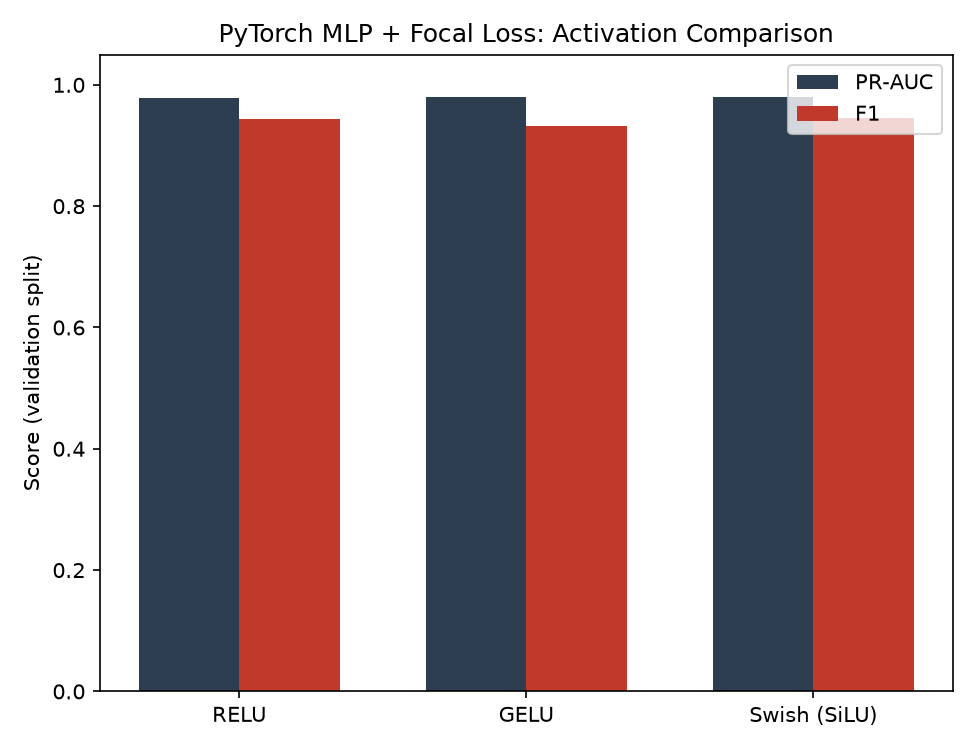
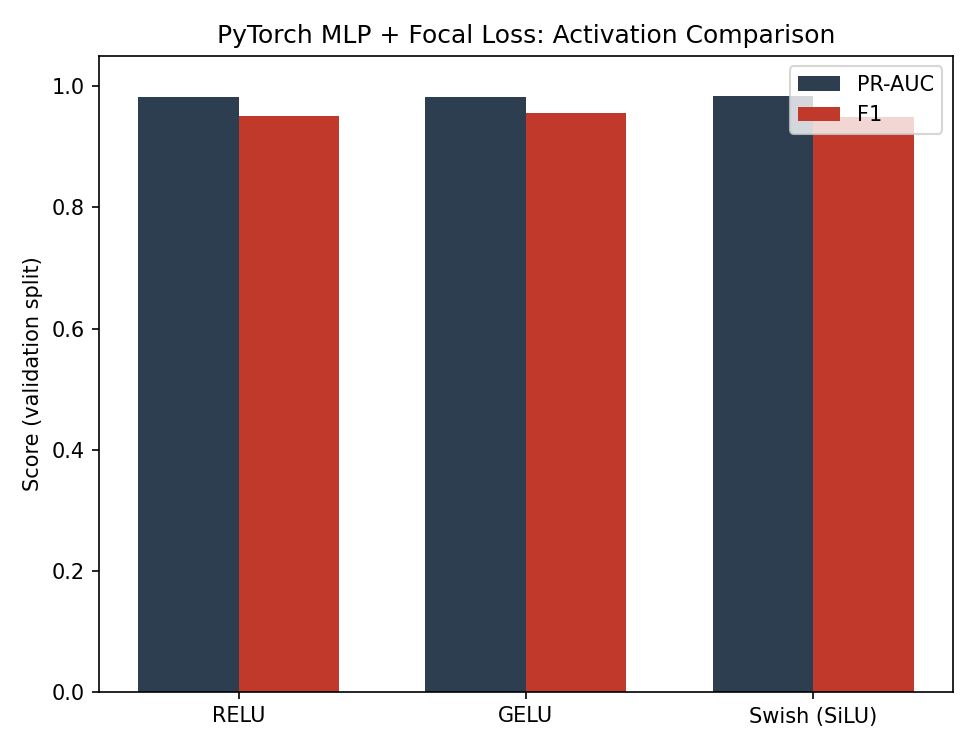
Fraud engine MLP: 100-epoch minimum with early stopping on validation PR-AUC, checkpoints
The MLP kept the best of a fixed 40 epochs. It now trains at least 100
epochs (max 300), early-stops on the validation month's PR-AUC
(patience 15), restores the best epoch and checkpoints every epoch. Best
epochs land at 74-81, past the old cap; test F1 rises slightly for every
activation (ReLU/GELU 0.941 -> 0.944, Swish 0.910 -> 0.924).

diff --git a/src/python/train_extra_models.py b/src/python/train_extra_models.py
@@ -27,8 +27,11 @@ metadata.json):
 """
 from __future__ import annotations
 
+import copy
+import hashlib
 import json
 import pathlib
+from pathlib import Path
 
 import duckdb
 import joblib
@@ -112,7 +115,26 @@ class FocalLoss(torch.nn.Module):
         return loss.mean()
 
 
-def _train_mlp(activation: str, X_train, y_train, X_val, y_val, n_epochs=40, lr=1e-3, seed=SEED):
+MIN_EPOCHS = 100  # ninguna red se detiene antes de 100 epocas
+MAX_EPOCHS = 300
+PATIENCE = 15
+
+
+def _fingerprint(*arrays, **config) -> str:
+    h = hashlib.sha256()
+    for a in arrays:
+        h.update(np.ascontiguousarray(np.asarray(a, dtype=np.float32)).tobytes())
+    h.update(json.dumps(config, sort_keys=True).encode())
+    return h.hexdigest()[:16]
+
+
+def _train_mlp(activation: str, X_train, y_train, X_val, y_val, n_epochs=MAX_EPOCHS, lr=1e-3, seed=SEED,
+               min_epochs=MIN_EPOCHS, patience=PATIENCE, checkpoint_path: Path | None = None, info: dict | None = None):
+    """Entrena con early stopping sobre el PR-AUC de la validacion temporal (el
+    mes anterior al test): al menos ``min_epochs`` epocas, desde ahi corta tras
+    ``patience`` epocas sin mejora y restaura la mejor epoca. Con
+    ``checkpoint_path`` el estado completo se guarda cada epoca y una corrida
+    interrumpida retoma donde quedo."""
     torch.manual_seed(seed)
     model = FraudMLP(X_train.shape[1], activation)
     optimizer = torch.optim.Adam(model.parameters(), lr=lr, weight_decay=1e-4)
@@ -124,28 +146,58 @@ def _train_mlp(activation: str, X_train, y_train, X_val, y_val, n_epochs=40, lr=
 
     batch_size = 512
     n = X_train_t.shape[0]
-    best_state, best_pr_auc = None, -1.0
+    fp = _fingerprint(X_train, y_train, X_val, y_val, activation=activation, n_epochs=n_epochs, lr=lr, seed=seed,
+                      min_epochs=min_epochs, patience=patience)
+    state = {"epoch": 0, "best_pr_auc": -1.0, "best_epoch": 0, "best_state": None, "bad_epochs": 0,
+             "done": False, "val_pr_auc": []}
+    if checkpoint_path is not None and Path(checkpoint_path).exists():
+        ckpt = torch.load(checkpoint_path, map_location="cpu", weights_only=False)
+        if ckpt.get("fingerprint") == fp:
+            model.load_state_dict(ckpt["model"])
+            optimizer.load_state_dict(ckpt["optimizer"])
+            state = ckpt["state"]
 
-    for epoch in range(n_epochs):
+    def save_checkpoint() -> None:
+        if checkpoint_path is None:
+            return
+        path = Path(checkpoint_path)
+        path.parent.mkdir(parents=True, exist_ok=True)
+        tmp = path.with_suffix(".tmp")
+        torch.save({"fingerprint": fp, "model": model.state_dict(), "optimizer": optimizer.state_dict(),
+                    "state": state}, tmp)
+        tmp.replace(path)
+
+    while not state["done"] and state["epoch"] < n_epochs:
+        torch.manual_seed(seed + state["epoch"])  # misma permutacion y dropout al retomar
         model.train()
         perm = torch.randperm(n)
         for start in range(0, n, batch_size):
             idx = perm[start:start + batch_size]
             optimizer.zero_grad()
-            logits = model(X_train_t[idx])
-            loss = criterion(logits, y_train_t[idx])
+            loss = criterion(model(X_train_t[idx]), y_train_t[idx])
             loss.backward()
             optimizer.step()
+        state["epoch"] += 1
 
         model.eval()
         with torch.no_grad():
             val_proba = torch.sigmoid(model(X_val_t)).numpy()
-        pr_auc = average_precision_score(y_val, val_proba)
-        if pr_auc > best_pr_auc:
-            best_pr_auc = pr_auc
-            best_state = {k: v.clone() for k, v in model.state_dict().items()}
+        pr_auc = float(average_precision_score(y_val, val_proba))
+        state["val_pr_auc"].append(pr_auc)
+        if pr_auc > state["best_pr_auc"] + 1e-6:
+            state.update(best_pr_auc=pr_auc, best_epoch=state["epoch"], bad_epochs=0,
+                         best_state=copy.deepcopy(model.state_dict()))
+        else:
+            state["bad_epochs"] += 1
+        if state["epoch"] >= min(min_epochs, n_epochs) and state["bad_epochs"] >= patience:
+            state["done"] = True
+        save_checkpoint()
 
-    model.load_state_dict(best_state)
+    model.load_state_dict(state["best_state"])
+    state["done"] = True
+    save_checkpoint()
+    if info is not None:
+        info.update(best_epoch=state["best_epoch"], epochs_run=state["epoch"])
     return model
 
 
@@ -210,7 +262,10 @@ def main():
     print("[4/6] Training PyTorch MLP + Focal Loss, one run per activation (ReLU / GELU / Swish)...")
     activation_results = {}
     for activation in ACTIVATIONS:
-        model = _train_mlp(activation, X_train, y_train, X_val, y_val, seed=SEED)
+        info = {}
+        model = _train_mlp(activation, X_train, y_train, X_val, y_val, seed=SEED, info=info,
+                           checkpoint_path=MODELS_DIR / "checkpoints" / f"pytorch_mlp_{activation}.ckpt")
+        print(f"  {activation:>6}: mejor epoca {info['best_epoch']} de {info['epochs_run']}")
         val_proba = _predict_mlp(model, X_val)
         threshold, _ = find_best_f1_threshold(y_val, val_proba)
         test_proba = _predict_mlp(model, X_test)

diff --git a/README.md b/README.md
@@ -399,9 +399,9 @@ supervised approaches on the **identical** feature matrix (including
 | Model | Precision | Recall | F1 | ROC-AUC | PR-AUC |
 |---|---:|---:|---:|---:|---:|
 | Logistic Regression (baseline) | 0.791 | 0.927 | 0.854 | 0.997 | 0.949 |
-| PyTorch MLP + Focal Loss (ReLU) | 0.945 | 0.936 | 0.941 | 0.9995 | 0.983 |
-| PyTorch MLP + Focal Loss (GELU) | 0.945 | 0.936 | 0.941 | 0.9992 | 0.984 |
-| PyTorch MLP + Focal Loss (Swish) | 0.862 | 0.964 | 0.910 | 0.9993 | 0.982 |
+| PyTorch MLP + Focal Loss (ReLU) | 0.962 | 0.927 | 0.944 | 0.9996 | 0.986 |
+| PyTorch MLP + Focal Loss (GELU) | 0.962 | 0.927 | 0.944 | 0.9994 | 0.985 |
+| PyTorch MLP + Focal Loss (Swish) | 0.904 | 0.945 | 0.924 | 0.9994 | 0.985 |
 | **IsolationForest + LightGBM (production)** | **1.000** | **1.000** | **1.000** | **1.000** | **1.000** |
 
 *(test split, seed 42, one real run of `make train-extra` on this machine —
@@ -417,8 +417,13 @@ the per-activation validation-split comparison.)*
 engineered features, especially `rules_risk_score` and `velocity_score`,
 carry most of the separable signal on their own). The MLP variants close
 most of the remaining gap over logistic regression regardless of
-activation choice — GELU and Swish edge out ReLU on validation PR-AUC in
-this run, but the difference (≈0.001) is well inside noise for a
+activation choice. Each MLP trains at least 100 epochs (at most 300) with
+early stopping on the validation month's PR-AUC (patience 15), restores the
+best epoch and checkpoints its state every epoch; the previous fixed 40
+epochs stopped too early, since the best epochs now land at 74-81, and
+every variant gains a little on test (ReLU/GELU F1 0.941 → 0.944, Swish
+0.910 → 0.924). Swish has the highest validation PR-AUC in this run, but
+the difference (≈0.002) is well inside noise for a
 three-way comparison at this dataset size, so no single activation should
 be read as reliably superior here. Only the two-stage ensemble reaches a
 perfect score, consistent with §6's explanation that it is a property of

diff --git a/README.es.md b/README.es.md
@@ -434,9 +434,9 @@ split temporal:
 | Modelo | Precision | Recall | F1 | ROC-AUC | PR-AUC |
 |---|---:|---:|---:|---:|---:|
 | Regresion Logistica (baseline) | 0.791 | 0.927 | 0.854 | 0.997 | 0.949 |
-| MLP PyTorch + Focal Loss (ReLU) | 0.945 | 0.936 | 0.941 | 0.9995 | 0.983 |
-| MLP PyTorch + Focal Loss (GELU) | 0.945 | 0.936 | 0.941 | 0.9992 | 0.984 |
-| MLP PyTorch + Focal Loss (Swish) | 0.862 | 0.964 | 0.910 | 0.9993 | 0.982 |
+| MLP PyTorch + Focal Loss (ReLU) | 0.962 | 0.927 | 0.944 | 0.9996 | 0.986 |
+| MLP PyTorch + Focal Loss (GELU) | 0.962 | 0.927 | 0.944 | 0.9994 | 0.985 |
+| MLP PyTorch + Focal Loss (Swish) | 0.904 | 0.945 | 0.924 | 0.9994 | 0.985 |
 | **IsolationForest + LightGBM (produccion)** | **1.000** | **1.000** | **1.000** | **1.000** | **1.000** |
 
 *(split de test, semilla 42, una ejecucion real de `make train-extra` en
@@ -453,8 +453,13 @@ que es tan limpio" (los atributos construidos, especialmente
 `rules_risk_score` y `velocity_score`, ya cargan la mayor parte de la
 señal separable por si solos). Las variantes del MLP cierran casi toda la
 brecha restante frente a la regresion logistica sin importar la
-activacion elegida — GELU y Swish superan levemente a ReLU en PR-AUC de
-validacion en esta corrida, pero la diferencia (≈0,001) esta dentro del
+activacion elegida. Cada MLP entrena al menos 100 epocas (maximo 300) con
+early stopping sobre el PR-AUC del mes de validacion (patience 15),
+restaura la mejor epoca y guarda un checkpoint cada epoca; las 40 epocas
+fijas anteriores se quedaban cortas, ya que las mejores epocas caen ahora
+entre la 74 y la 81, y todas las variantes ganan un poco en test (F1 de
+ReLU/GELU 0,941 → 0,944, Swish 0,910 → 0,924). Swish tiene el PR-AUC de
+validacion mas alto en esta corrida, pero la diferencia (≈0,002) esta dentro del
 ruido esperable para una comparacion de tres alternativas con este tamaño
 de dataset, asi que ninguna activacion deberia leerse como confiablemente
 superior aqui. Solo el ensamble de dos etapas alcanza un puntaje
